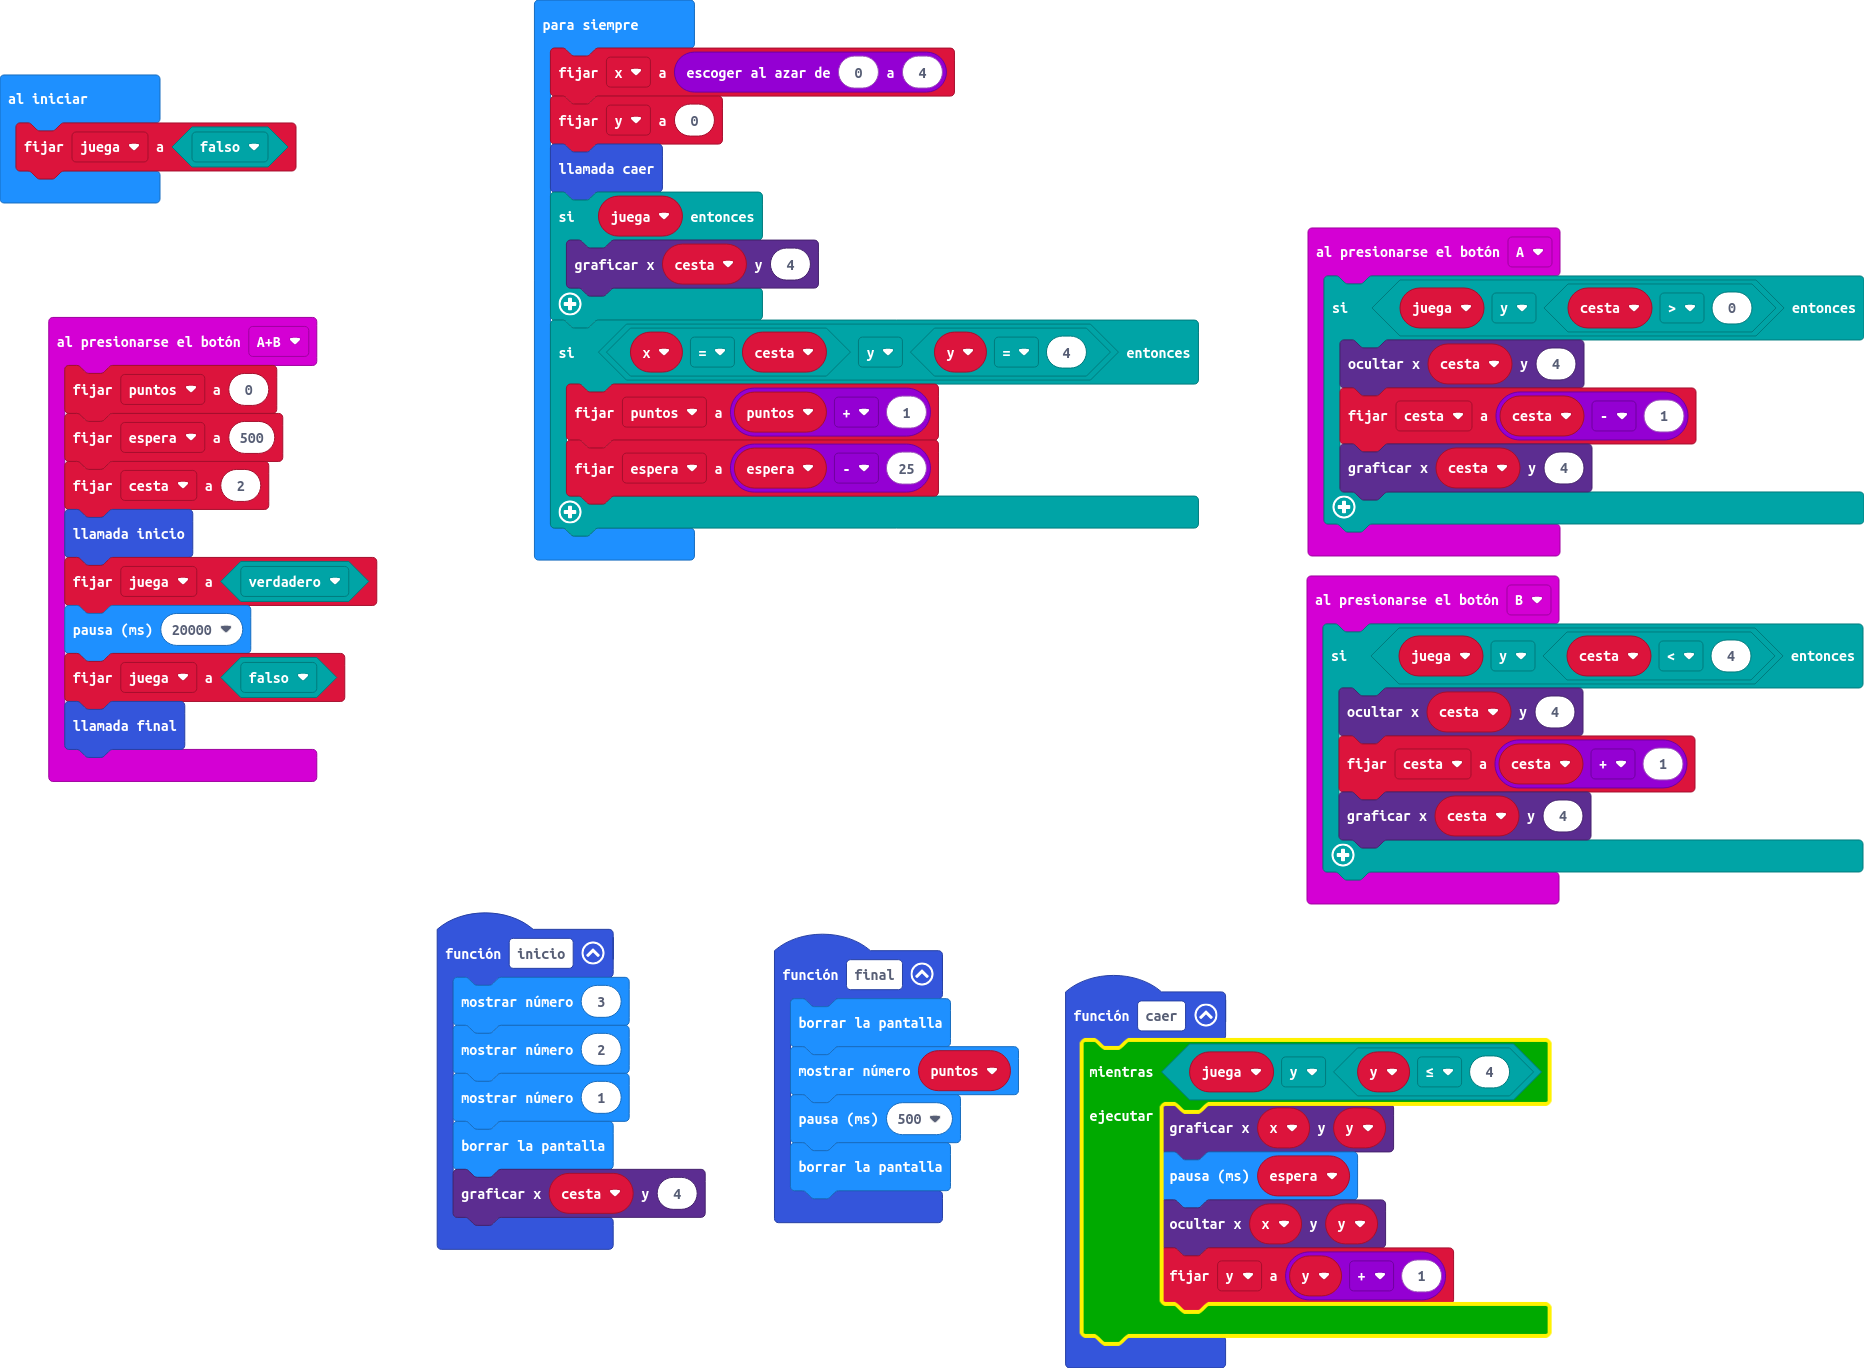
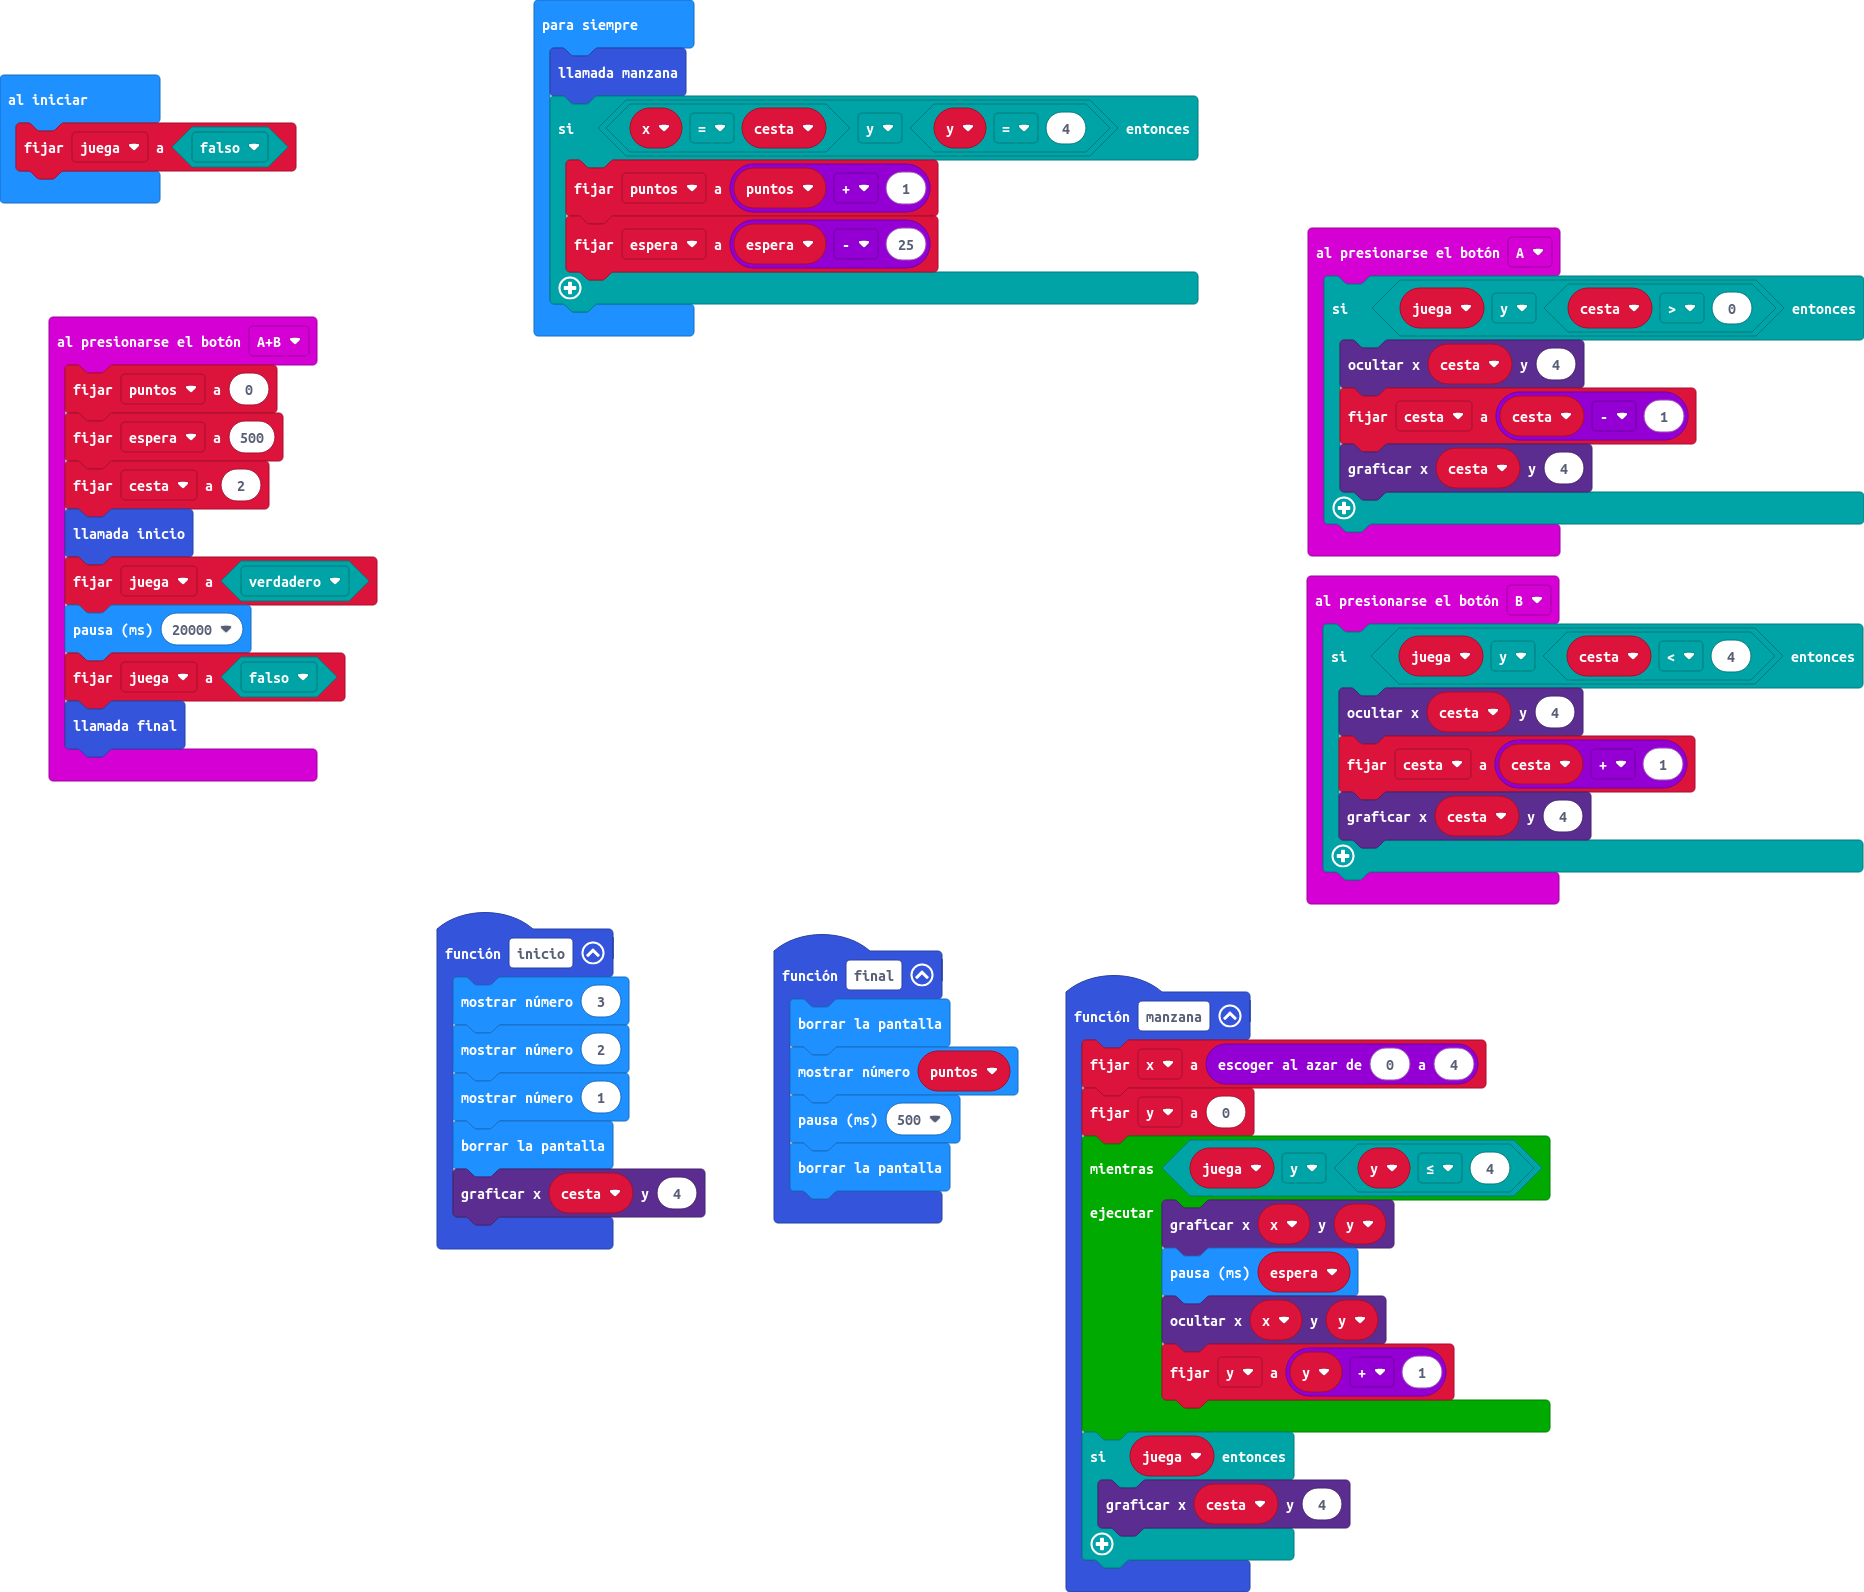
Actualizar main.blocks, main.ts

diff --git a/main.ts b/main.ts
@@ -1,11 +1,3 @@
-function caer () {
-    while (juega && y <= 4) {
-        led.plot(x, y)
-        basic.pause(espera)
-        led.unplot(x, y)
-        y = y + 1
-    }
-}
 function final () {
     basic.clearScreen()
     basic.showNumber(puntos)
@@ -43,20 +35,28 @@ input.onButtonPressed(Button.B, function () {
         led.plot(cesta, 4)
     }
 })
-let cesta = 0
-let puntos = 0
-let espera = 0
-let x = 0
-let y = 0
-let juega = false
-juega = false
-basic.forever(function () {
+function manzana () {
     x = randint(0, 4)
     y = 0
-    caer()
+    while (juega && y <= 4) {
+        led.plot(x, y)
+        basic.pause(espera)
+        led.unplot(x, y)
+        y = y + 1
+    }
     if (juega) {
         led.plot(cesta, 4)
     }
+}
+let y = 0
+let x = 0
+let espera = 0
+let cesta = 0
+let puntos = 0
+let juega = false
+juega = false
+basic.forever(function () {
+    manzana()
     if (x == cesta && y == 4) {
         puntos = puntos + 1
         espera = espera - 25
